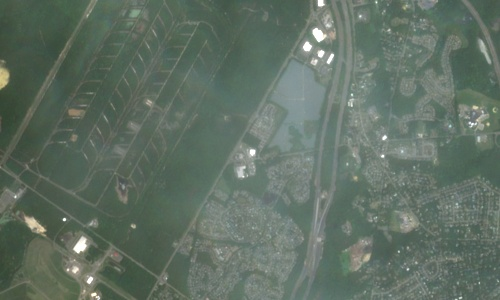
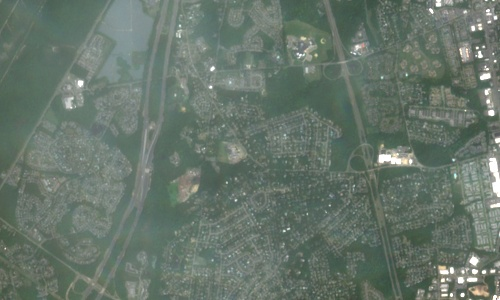
Recenter Sentinel-2 crops exactly on Wayside Elementary school mirror coordinate (7915, 4384) and increment cache version to v=1.0.6

diff --git a/js/main.js b/js/main.js
@@ -444,13 +444,13 @@ document.addEventListener('DOMContentLoaded', () => {
       
       if (item.date) {
         if (item.date.includes('2023-11-16')) {
-          imgPath = 'img/sentinel2_reflection_20231116.jpg';
+          imgPath = 'img/sentinel2_reflection_20231116.jpg?v=1.0.6';
           imgAlt = 'Sentinel-2B True Color Crop (November 16, 2023)';
         } else if (item.date.includes('2026-05-31')) {
-          imgPath = 'img/sentinel2_reflection_20260531.jpg';
+          imgPath = 'img/sentinel2_reflection_20260531.jpg?v=1.0.6';
           imgAlt = 'Sentinel-2A True Color Crop (May 31, 2026)';
         } else if (item.date.includes('2026-06-05')) {
-          imgPath = 'img/sentinel2_reflection_20260605.jpg';
+          imgPath = 'img/sentinel2_reflection_20260605.jpg?v=1.0.6';
           imgAlt = 'Sentinel-2C True Color Crop (June 5, 2026)';
         }
       }

diff --git a/index.html b/index.html
@@ -10,7 +10,7 @@
   <title>The Orbital Heliography Project</title>
 
   <!-- Stylesheets -->
-  <link rel="stylesheet" href="css/style.css?v=1.0.5">
+  <link rel="stylesheet" href="css/style.css?v=1.0.6">
 </head>
 
 <body>
@@ -578,6 +578,6 @@
   </footer>
 
   <!-- Scripts -->
-  <script src="js/main.js?v=1.0.5"></script>
+  <script src="js/main.js?v=1.0.6"></script>
 </body>
 </html>